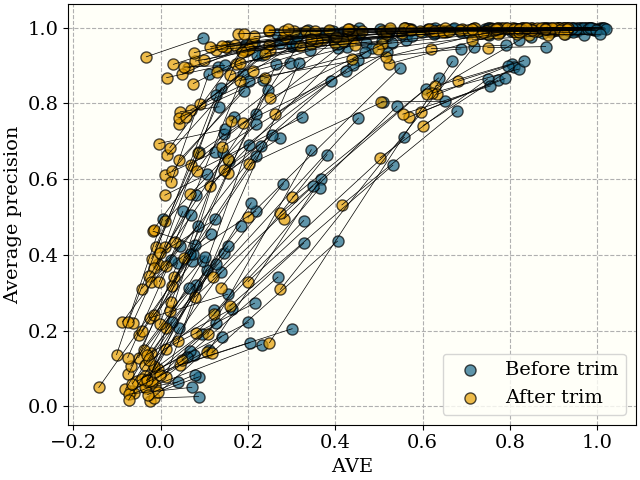
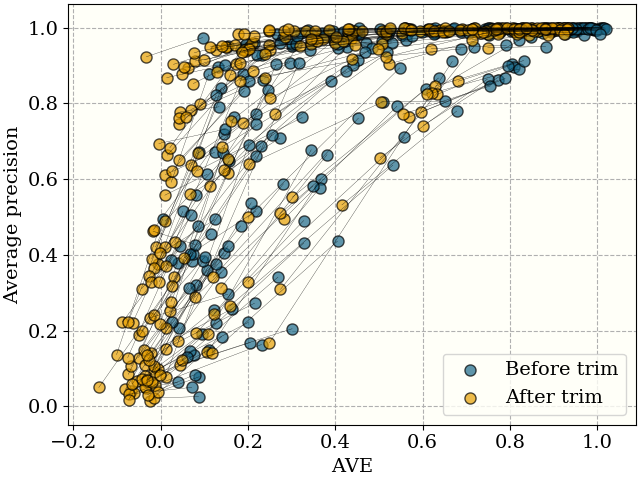
bah

diff --git a/code/replicate_AVE_figures.py b/code/replicate_AVE_figures.py
@@ -91,7 +91,7 @@ plt.close(fig)
 fig, ax = plt.subplots()
 #This becomes a supplementary:
 for a,b,c,d in zip(aves_before_trim, aves_after_trim, ap_before_trim, ap_after_trim):
-    ax.plot([a,b], [c,d], lw=0.5, c='k')
+    ax.plot([a,b], [c,d], lw=0.2, c='k')
 
 ax.scatter(aves_before_trim, ap_before_trim, alpha=utils.ALPHA, label='Before trim')
 ax.scatter(aves_after_trim, ap_after_trim, alpha=utils.ALPHA, label='After trim')
